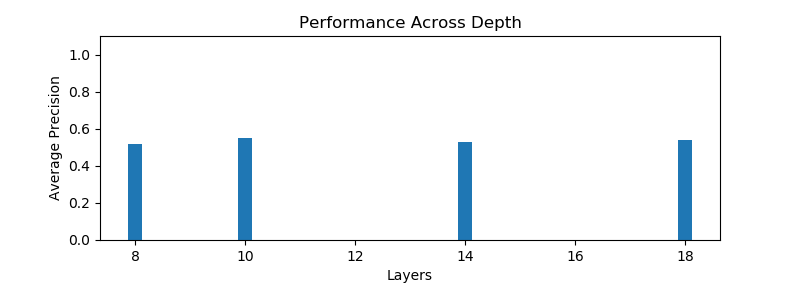
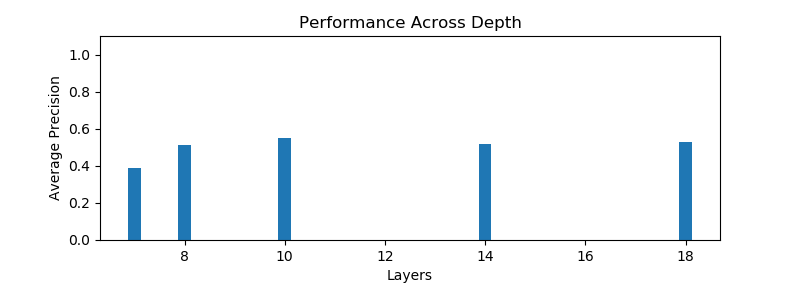
presi done

diff --git a/doc/presentation/mid-term/fi-pdflatex.tex b/doc/presentation/mid-term/fi-pdflatex.tex
@@ -50,7 +50,7 @@
   		\tableofcontents
   	\end{frame}
 	\section{Introduction}
-	\subsection{Application}
+%	\subsection{Application}
     \begin{frame}{Application}
     	\includegraphics[width=\textwidth]{fig/application}
     \end{frame}
@@ -62,7 +62,7 @@
 \begin{frame}{Pipeline}
 \includegraphics[width=\textwidth]{fig/control_loop_inv}
 \end{frame}
-\subsection{Challenges}    
+%\subsection{Challenges}    
 \begin{frame}
 \centering
 \includegraphics[width=0.31\textwidth]{../../thesis/fig/real_cyberzoo1.png}
@@ -82,7 +82,7 @@
 \end{block}
 \end{frame}
 
-	\subsection{Research Question}    
+%	\subsection{Research Question}    
 	\begin{frame}	
 	\textbf{How can we use synthetic data to learn an object detector for empty wireframe objects on a micro-air vehicle?\\}
 	\bigskip
@@ -102,7 +102,7 @@
     \begin{frame}{Outline for Section \thesection}
     \tableofcontents[currentsection]
 	\end{frame}
-\subsection{Object Detection}
+%\subsection{Object Detection}
 	\begin{frame}{Object Detection}
 	\includegraphics[width=\textwidth]{fig/ObjectDetection}
 	\end{frame}
@@ -114,7 +114,7 @@
 % then you do two tasks and that is classification and localization so determining the object and the bounding box coordinates
 % Now there are different ways for each of these steps but thats it from a high level perspective
 % State of the art methods all use convolutional neural networks and the reason that is beliefed to be responsible for that performance is the fact that you can combine all these steps in one model and train it end to end on the task so instead of manually enginnering and training models you combine it all in one.
-	\subsection{Convolutional Neural Networks}
+%	\subsection{Convolutional Neural Networks}
 		\begin{frame}{Convolutional Neural Networks}
 	\includegraphics[width=\textwidth]{fig/cnn_mine}
 \end{frame}
@@ -125,7 +125,14 @@
 %$$
 %
 %\end{frame}
-
+\section{Hypothesis}
+\begin{frame}{Hypothesis}
+    \begin{itemize}
+    	\item A deep network can learn more robust features
+    	\item A simple network should be able to learn the task
+    	\item Simulating the real world can improve the performance in the real world
+    \end{itemize}
+\end{frame}
 % So now we can look at an example for a convolutional network and at the different layers. So typically you apply per layer a certain amount of filters, then you apply pooling and non-linearity and you stack several of these filters and at the end you have your output.
 % And typically the performance improves the deeper you go. One reason is that the flexibility of the model increases but you can also look at it from another perspective and see what the different layers are responsible for. So when you visualize these filters you usually see how these early layers look for edges, corner and blobs, while higher layers then combine these low level features to more complex parts like eyes, noses and so on.
 % Now the draw back of these deep networks is their computational effort, especially the deep one is their huge consumption in energy, computations and memory which makes them not applicable for micro air vehicles.
@@ -134,15 +141,33 @@
         \begin{frame}{Outline for Section \thesection}
     \tableofcontents[currentsection]
 \end{frame}
-\begin{frame}{Virtual Environment}
+
+\begin{frame}{Experimental Setup}
 \centering
-\includegraphics[width=0.45\textwidth]{../../thesis/fig/basement_perspective}\\
-\includegraphics[width=0.45\textwidth]{../../thesis/fig/daylight_perspective}
-\includegraphics[width=0.45\textwidth]{../../thesis/fig/iros_perspective}
+\begin{itemize}
+	\item Synthetic Trainingset 20 000 samples
+	\item Synthetic Testset 550 samples, 1361 objects
+	\item Real Dataset 300 samples, 423 objects
+	\item Metric: Average Precision
+\end{itemize}
+\includegraphics[width=0.3\textwidth]{fig/iou_example}
 
 \end{frame}
 
-  \subsection{Network Design}
+\begin{frame}{Synthetic Data}
+\centering
+\includegraphics[width=0.45\textwidth]{../../thesis/fig/daylight_perspective}
+\includegraphics[width=0.45\textwidth]{../../thesis/fig/iros_perspective}
+\end{frame}
+
+\begin{frame}{Real Dataset}
+\centering
+\includegraphics[width=0.31\textwidth]{../../thesis/fig/real_cyberzoo1.png}
+\includegraphics[width=0.31\textwidth]{../../thesis/fig/basement}
+\includegraphics[width=0.31\textwidth]{../../thesis/fig/hallway}
+\end{frame}
+
+%\subsection{Network Design}
 
 \begin{frame}{Results}
 \includegraphics[width=\textwidth]{../../thesis/fig/perf_width}
@@ -151,7 +176,7 @@
 \begin{frame}{Results}
 \includegraphics[width=\textwidth]{../../thesis/fig/perf_depth}
 \end{frame}
-  \subsection{Data Generation}
+ % \subsection{Data Generation}
 %    \begin{frame}{Data Properties}
 %\begin{itemize}
 %	\item \textbf{Background/Environment} \\Illumination, Background Texture, Other Objects
@@ -174,14 +199,15 @@
 	\end{frame}
 
 
-  \subsection{Comparison to Baseline}
+%  \subsection{Comparison to Baseline}
       \begin{frame}{Comparison to Baseline}
+      \centering
     \includegraphics[width=0.8\textwidth]{../../thesis/fig/comp_baseline}
-\end{frame}
+	\end{frame}
 
     
     \section{Summary}
-       \subsection{Conclusion}
+ %      \subsection{Conclusion}
             \begin{frame}{Outline for Section \thesection}
     \tableofcontents[currentsection]
 \end{frame}
@@ -194,7 +220,7 @@
     \end{itemize}
     \end{frame}
 
-   \subsection{Open Questions}
+ %  \subsection{Open Questions}
        \begin{frame}{Open Questions}
 \begin{itemize}
 	\item Reality Gap

diff --git a/src/python/experiments/thesis/objectdetect/plot_depth.py b/src/python/experiments/thesis/objectdetect/plot_depth.py
@@ -26,7 +26,8 @@ names = [
     'd0',
     'w0',
     'd1',
-    'd2'
+    'd2',
+    'd01'
     # 'arch'
 ]
 iou = 0.6
@@ -67,6 +68,10 @@ for m, model in enumerate(models):
             l += 1
     layers.append(l)
 
+results_on_sim.append(0.39)
+weights.append(51.994)
+layers.append(7)
+
 frame['Sim Data' + str(iou)] = pd.Series(results_on_sim)
 frame['Weights'] = pd.Series(weights)
 frame['Layers'] = pd.Series(layers)
@@ -91,6 +96,7 @@ for m, model in enumerate(models):
     errAP = np.mean(std_p, 0)
     results_on_real.append(np.round(meanAp, 2))  # , errAp
 
+results_on_real.append(0.39)
 frame['Real Data' + str(iou)] = pd.Series(results_on_real)
 frame.set_index('Name')
 

diff --git a/src/python/experiments/thesis/objectdetect/plot_width.py b/src/python/experiments/thesis/objectdetect/plot_width.py
@@ -27,6 +27,7 @@ names = [
     'w2',
     'w3',
     'w4',
+    'w02',
     # 'arch'
 ]
 iou = 0.6
@@ -61,6 +62,8 @@ for m, model in enumerate(models):
     w = load_file(work_dir+model+'_i00/summary.pkl')['weights']
     weights.append(w)
 
+results_on_sim.append(0.35)
+weights.append(24.132)
 frame['Sim Data' + str(iou)] = pd.Series(results_on_sim)
 frame['Weights'] = pd.Series(weights)
 
@@ -87,6 +90,7 @@ for m, model in enumerate(models):
     errAP = np.mean(std_p, 0)
     results_on_real.append(np.round(meanAp, 2))  # , errAp
 
+results_on_real.append(0.1)
 frame['Real Data' + str(iou)] = pd.Series(results_on_real)
 frame.set_index('Name')
 
